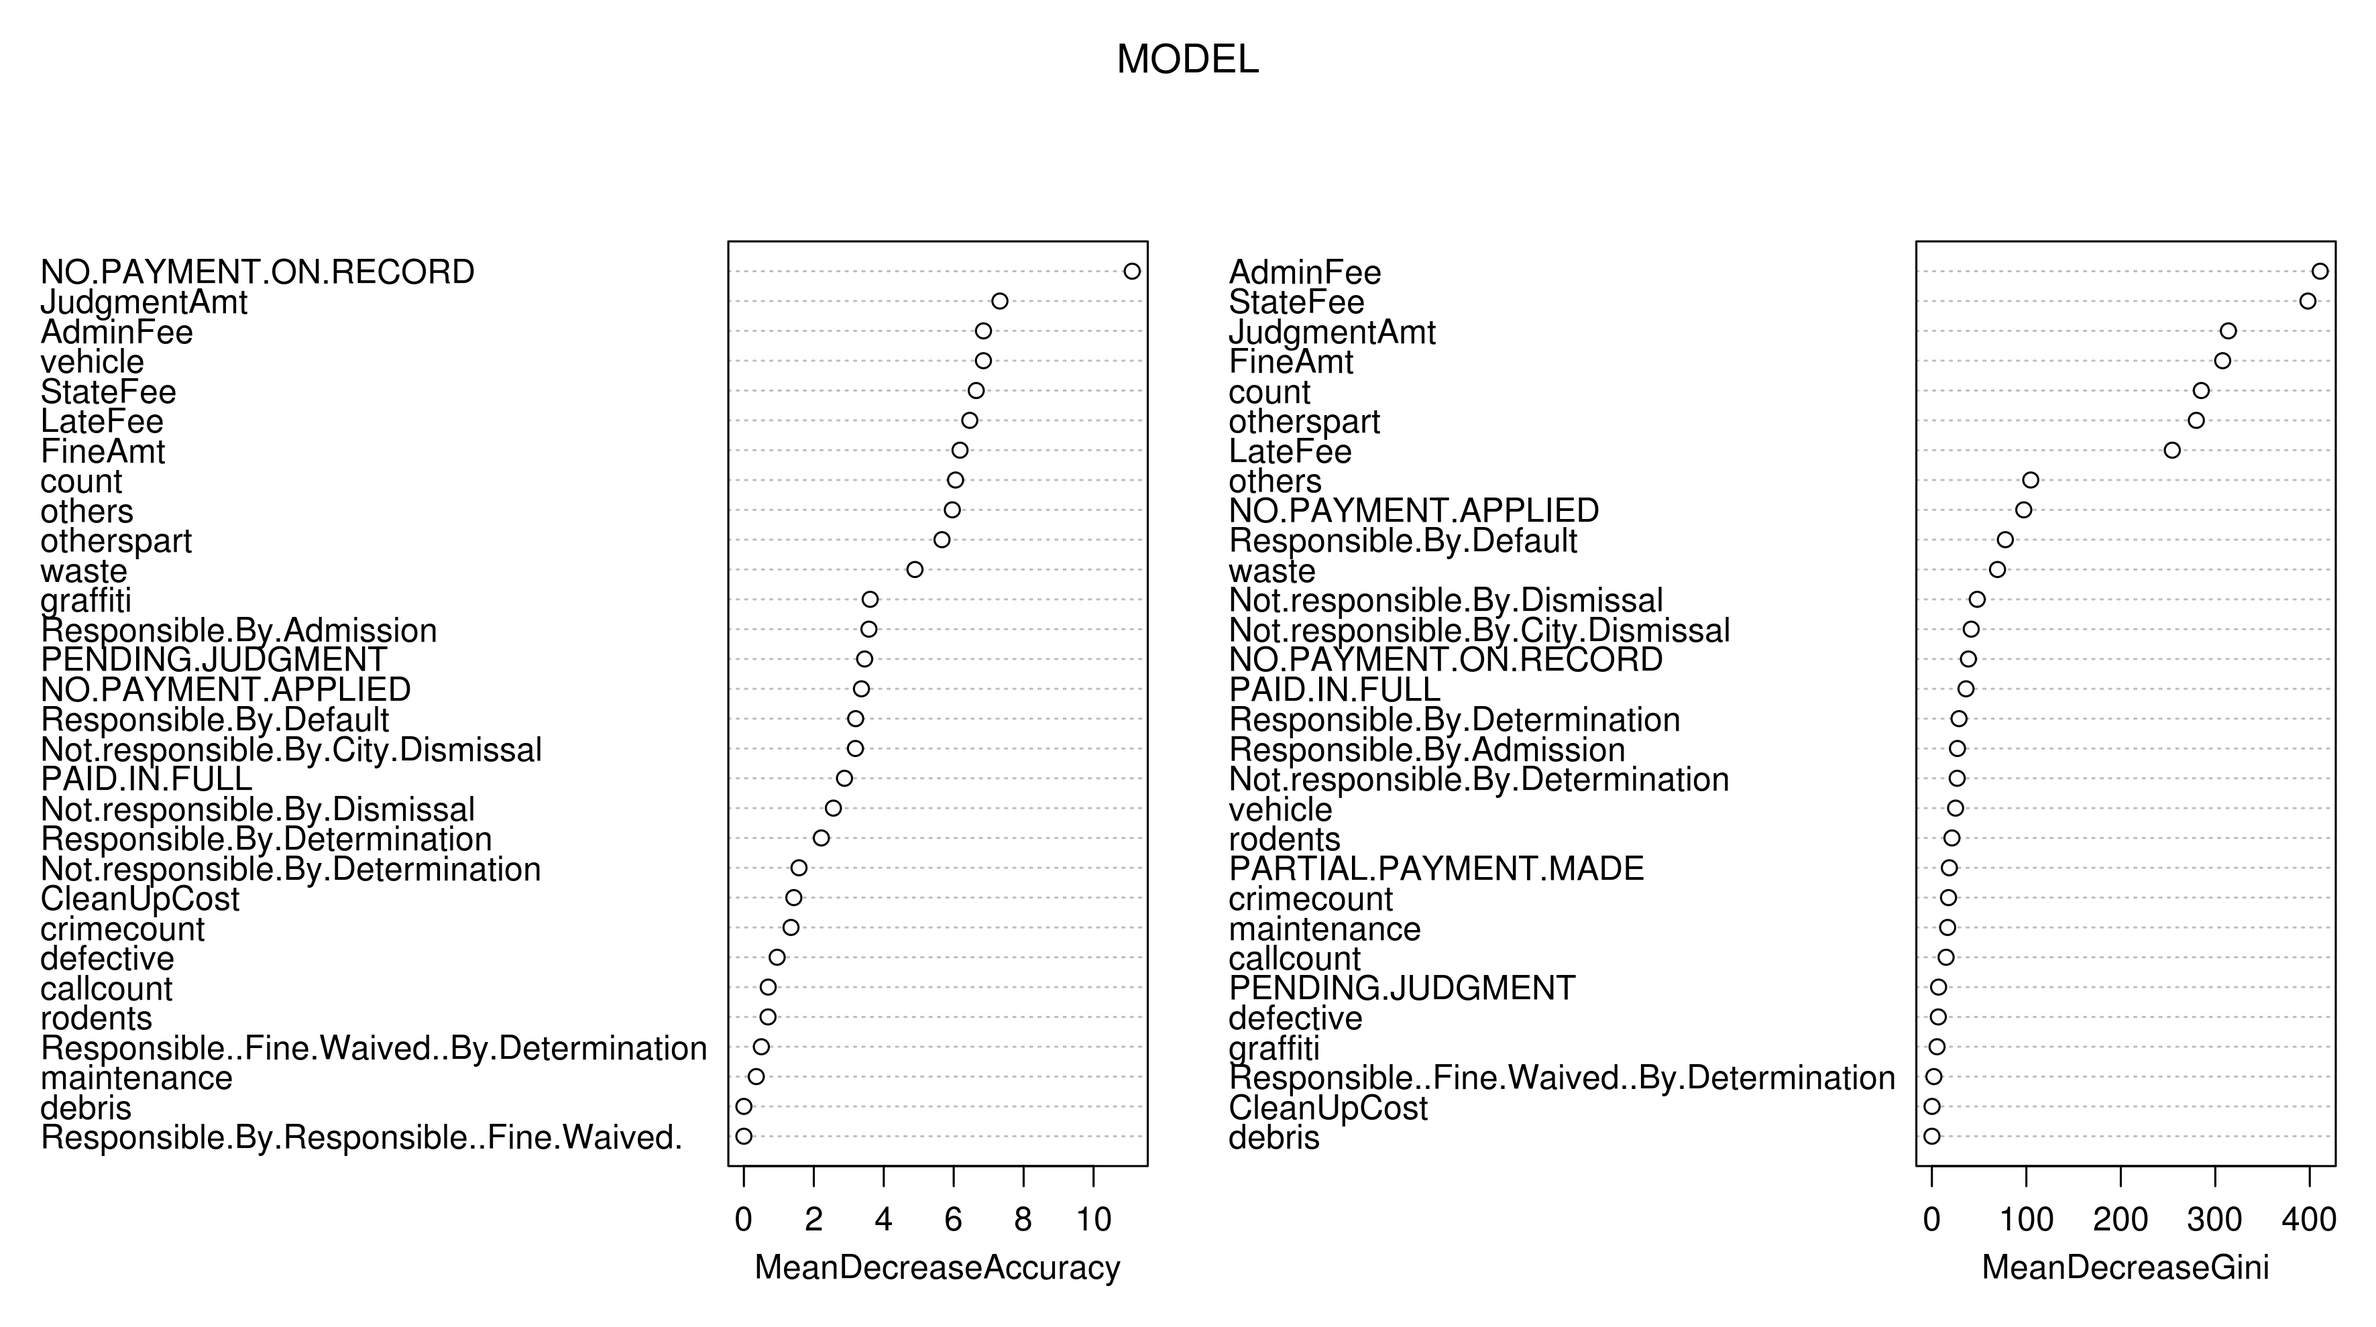
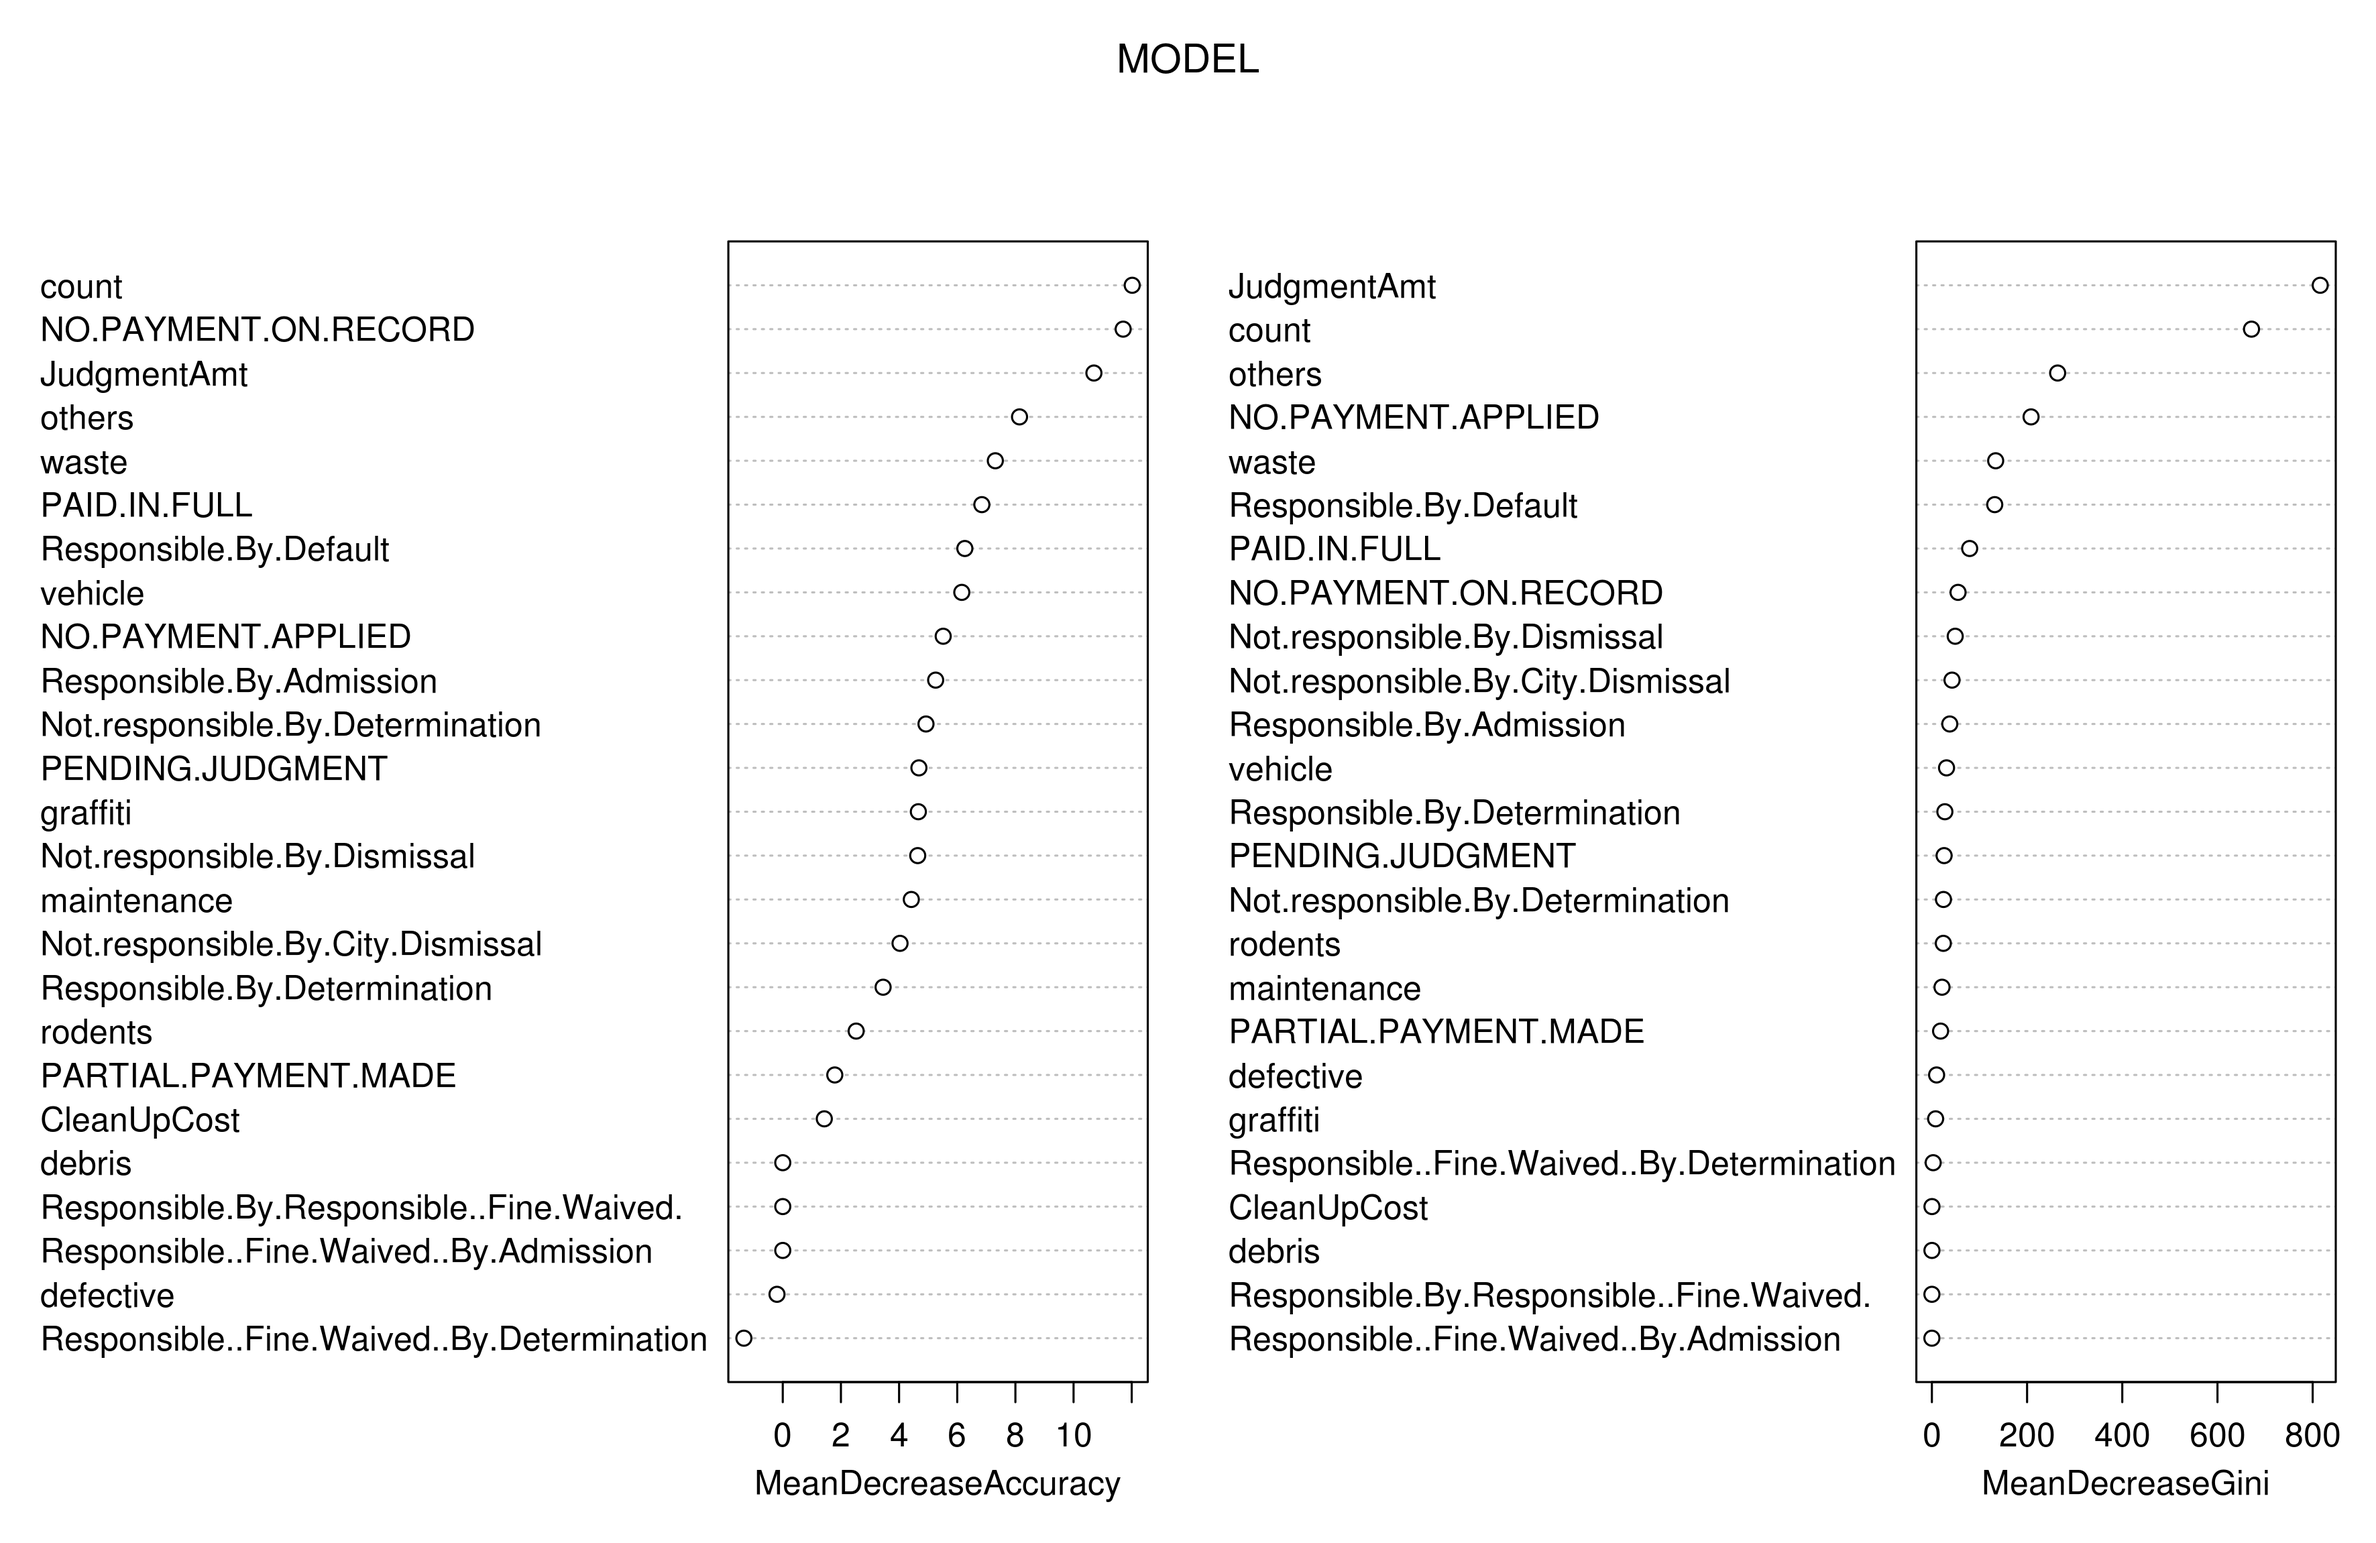
final model

diff --git a/README.md b/README.md
@@ -248,58 +248,53 @@ Call:
                      Number of trees: 100
 No. of variables tried at each split: 5
 
-        OOB estimate of  error rate: 24.49%
+        OOB estimate of  error rate: 24.34%
 Confusion matrix:
      0    1 class.error
-0 4599  532   0.1036835
-1 1974 3126   0.3870588
+0 4727  404  0.07873709
+1 2086 3014  0.40901961
 ```
 
 
 ![importance](maps/importance.png)
 
+
 ```
    MeanDecreaseAccuracy                                    feature
-1            11.1049547                       NO.PAYMENT.ON.RECORD
-2             7.3218649                                JudgmentAmt
-3             6.8520266                                   AdminFee
-4             6.8504877                                    vehicle
-5             6.6439320                                   StateFee
-6             6.4600053                                    LateFee
-7             6.1807799                                    FineAmt
-8             6.0536165                                      count
-9             5.9607387                                     others
-10            5.6655689                                 otherspart
-11            4.8923257                                      waste
-12            3.6116380                                   graffiti
-13            3.5760504                   Responsible.By.Admission
-14            3.4536619                           PENDING.JUDGMENT
-15            3.3618392                         NO.PAYMENT.APPLIED
-16            3.1967213                     Responsible.By.Default
-17            3.1901008          Not.responsible.By.City.Dismissal
-18            2.8771494                               PAID.IN.FULL
-19            2.5597032               Not.responsible.By.Dismissal
-20            2.2147489               Responsible.By.Determination
-21            1.5770781           Not.responsible.By.Determination
-22            1.4285346                                CleanUpCost
-23            1.3473471                                 crimecount
-24            0.9514461                                  defective
-25            0.6956935                                  callcount
-26            0.6906121                                    rodents
-27            0.4994397 Responsible..Fine.Waived..By.Determination
-28            0.3544524                                maintenance
-29            0.0000000                                     debris
-30            0.0000000   Responsible.By.Responsible..Fine.Waived.
-31            0.0000000     Responsible..Fine.Waived..By.Admission
-32           -2.5499745                       PARTIAL.PAYMENT.MADE
+1            12.0174616                                      count
+2            11.7058503                       NO.PAYMENT.ON.RECORD
+3            10.6998760                                JudgmentAmt
+4             8.1419668                                     others
+5             7.3097141                                      waste
+6             6.8462156                               PAID.IN.FULL
+7             6.2611452                     Responsible.By.Default
+8             6.1565691                                    vehicle
+9             5.5171036                         NO.PAYMENT.APPLIED
+10            5.2577122                   Responsible.By.Admission
+11            4.9252647           Not.responsible.By.Determination
+12            4.6820547                           PENDING.JUDGMENT
+13            4.6627133                                   graffiti
+14            4.6404937               Not.responsible.By.Dismissal
+15            4.4204598                                maintenance
+16            4.0326192          Not.responsible.By.City.Dismissal
+17            3.4506889               Responsible.By.Determination
+18            2.5242087                                    rodents
+19            1.7888312                       PARTIAL.PAYMENT.MADE
+20            1.4285608                                CleanUpCost
+21            0.0000000                                     debris
+22            0.0000000   Responsible.By.Responsible..Fine.Waived.
+23            0.0000000     Responsible..Fine.Waived..By.Admission
+24           -0.1984569                                  defective
+25           -1.3370381 Responsible..Fine.Waived..By.Determination
 ```
+
 
 
 
 # DISCUSSION
 
 
-During data refinement and feature extraction, the choice of methos is not important. All models predict around 0.76. So focus should be on performance and easy of use. logistic regression and ctree might be a good recommendation.
+During data refinement and feature extraction, the choice of method is not important. All models predict around 0.76. So focus should be on performance and easy of use. logistic regression and ctree might be a good recommendation.
 A typical confusion matrix for some test dataset during cross validation is:
 
 ```
